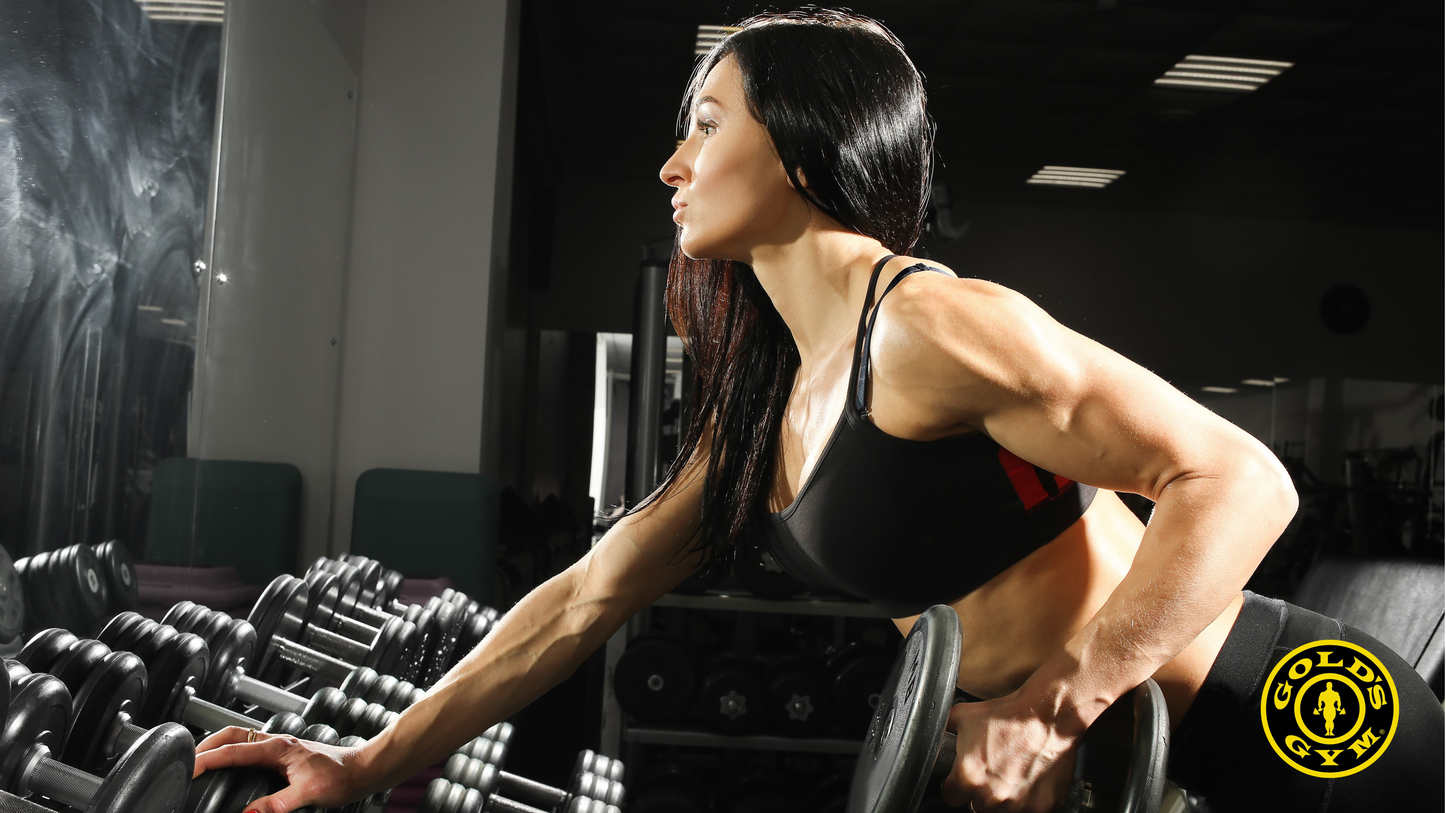
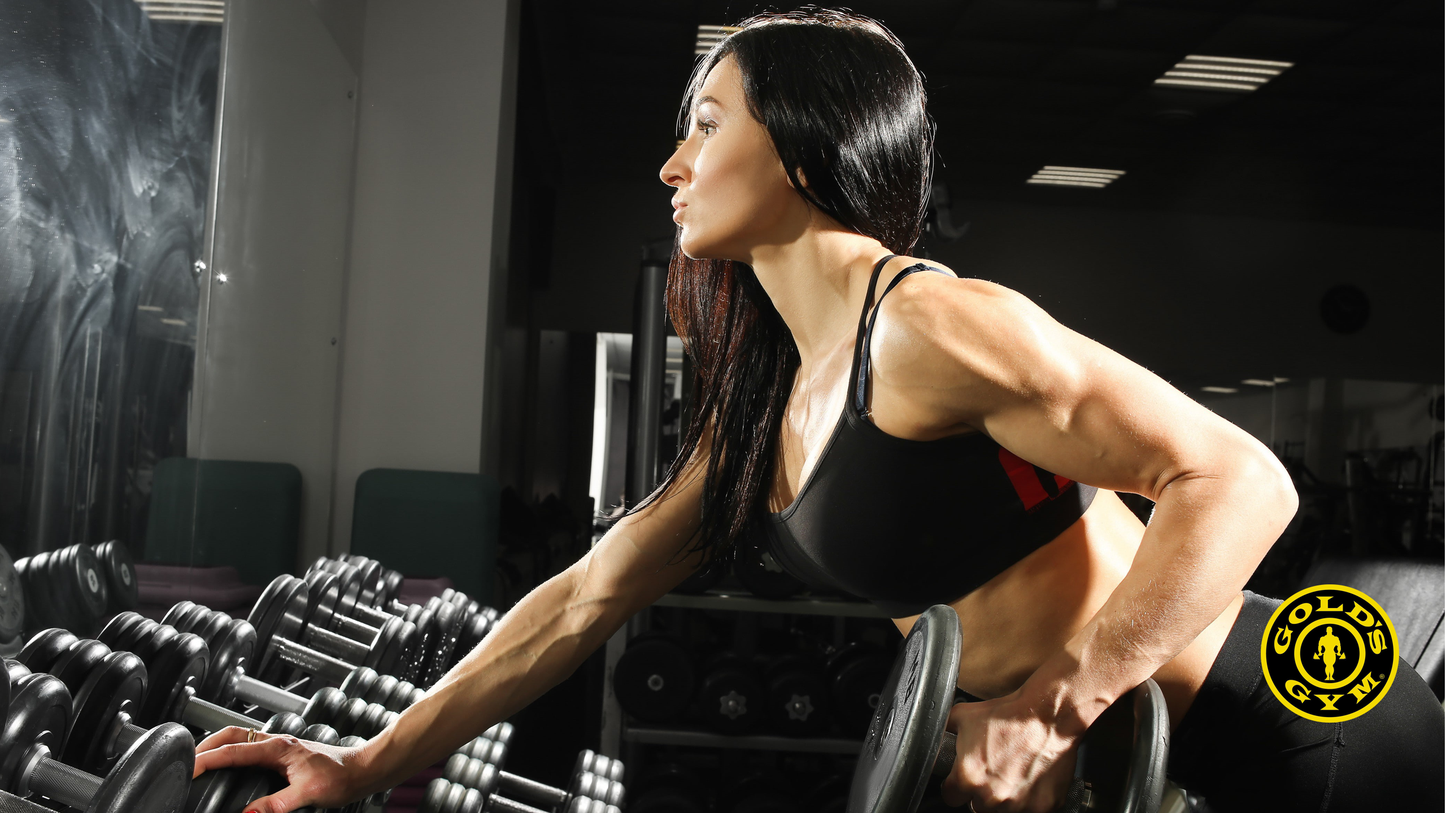
update images watermark

Changed region(s): [[0.875, 0.7188, 0.9688, 0.9688]]

diff --git a/index.html b/index.html
@@ -80,13 +80,13 @@
           </li>
 
           <li class="nav-item">
-            <a class="nav-link" href="#about">About Us</a>
+            <a class="nav-link" href="#about" data-target="#about">About Us</a>
           </li>
           <li class="nav-item">
             <a class="nav-link" href="signup.html">Sign Up</a>
           </li>
           <li class="nav-item">
-            <a class="nav-link" href="#contact">Contact</a>
+            <a class="nav-link" href="#contact" data-target="#contact">Contact</a>
           </li>
         </ul>
       </div>
@@ -141,7 +141,7 @@
   </section>
 
   <!-- About Us Section with Sliding Image Carousel -->
-  <section id="about" class="about-us mt-4 mb-4 text-center">
+  <section id="about" class="about-us mt-5 mb-5 text-center">
     <!-- Added "mt-4" and "mb-4" classes -->
     <div class="container">
       <div class="row">
@@ -426,6 +426,7 @@
   <audio id="audio-sound3" src="assets/sounds/sound-3.mp3"></audio>
   <script src="assets/js/playandpausebuttonforsound.js"></script>
   <script src="assets/js/stickyheader.js"></script>
+  <script src="assets/js/smoothscrolling.js"></script>
 
 
 </body>
